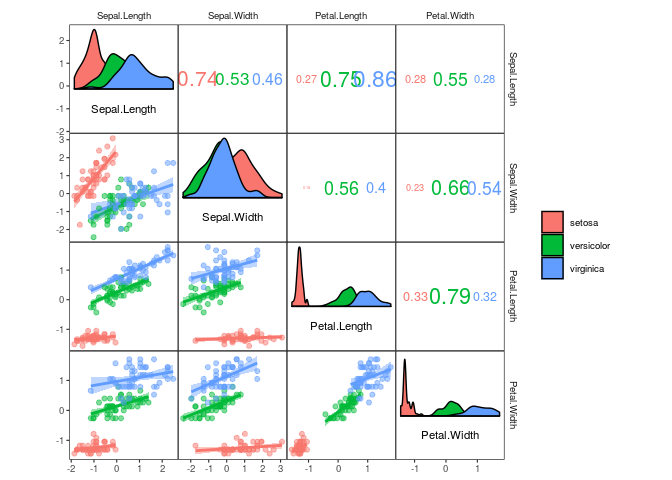
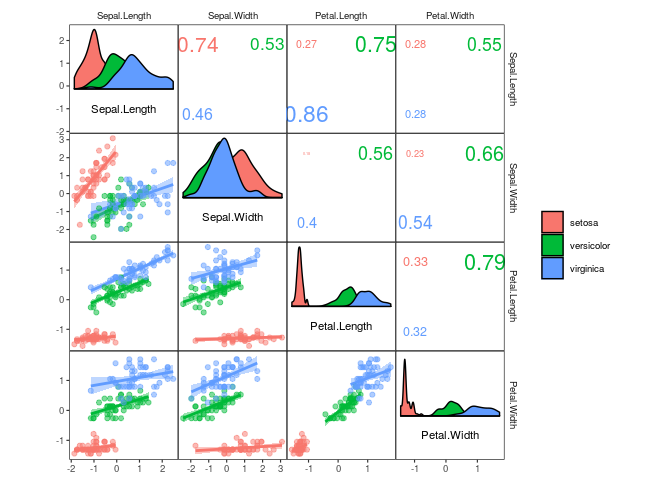
Updated Github README file

diff --git a/README.md b/README.md
@@ -98,16 +98,15 @@ p1 + lotri(geom_smooth(method = "lm"))
 
 ![](README_files/figure-markdown_github/unnamed-chunk-5-1.png)
 
-The horrific fit of these linear regressions results from the fact that the iris dataset consists of data from three different species. You might want to include this information into your plot by splitting the three groups:
+The horrific fit of these linear regressions results from the fact that the iris dataset consists of data from three different species. You might want to include this information into your plot by plotting the three species in different colours, which can easily be achieved by setting plot level aesthetics using the `mapping` argument of `ggcorrm()`:
 
 ``` r
-ggcorrm(iris) +
-  lotri(geom_smooth(aes(col = Species, fill = Species),
-                    method = "lm")) +
-  lotri(geom_point(aes(col = Species), alpha = 0.5)) +
-  utri(geom_corrtext(aes(col = Species))) +
+ggcorrm(iris, mapping = aes(col = Species, fill = Species)) +
+  lotri(geom_smooth(method = "lm")) +
+  lotri(geom_point(alpha = 0.5)) +
+  utri(geom_corrtext(nrow = 2)) +
   dia_names(y_pos = 0.1, size = 3) +
-  dia_density(aes(fill = Species), lower = 0.4, color = 1)
+  dia_density(lower = 0.4, color = 1)
 ```
 
 ![](README_files/figure-markdown_github/unnamed-chunk-6-1.png)
